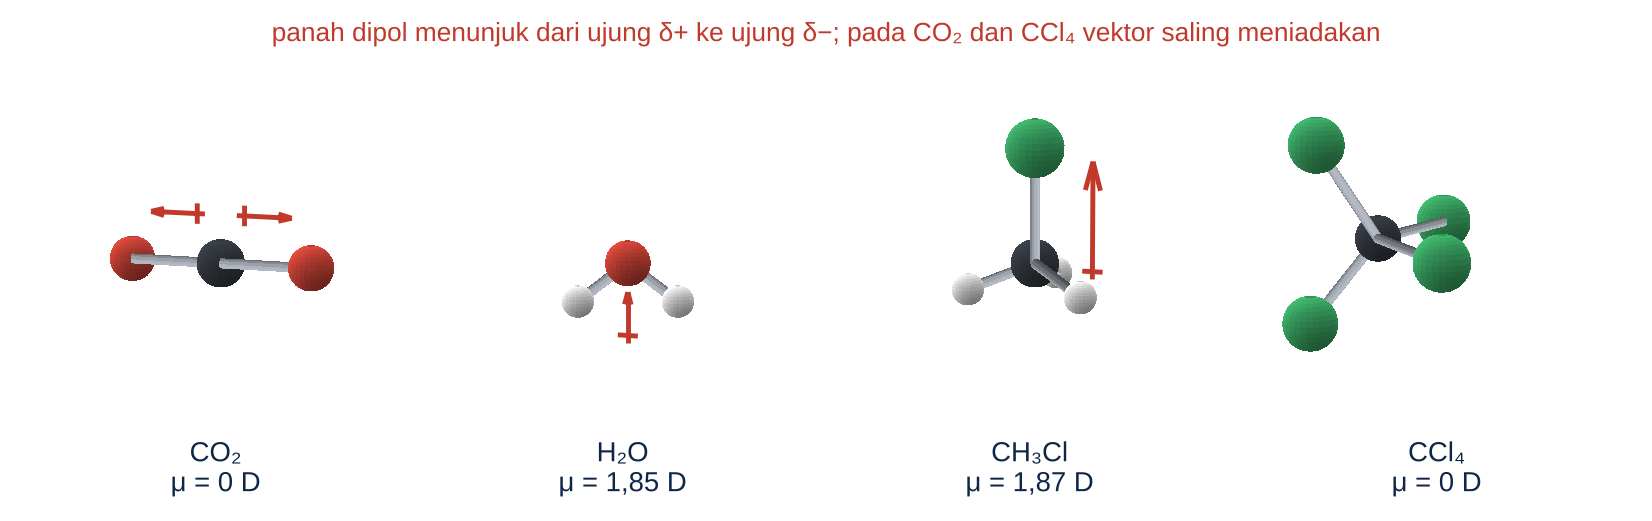
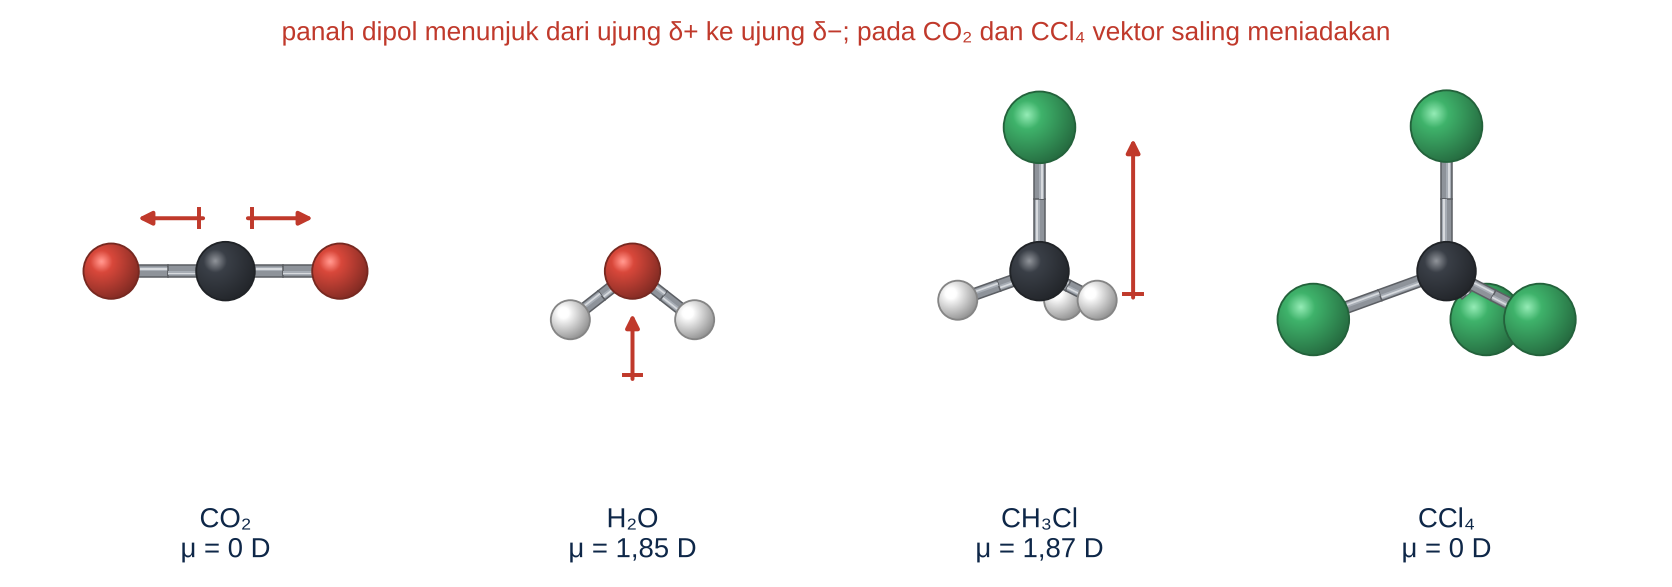
Kimia Organik 1: penggambar bola-batang berurutan kedalaman (tanpa cacat tumpang-tindih) untuk dipol dan VSEPR
Claude-Session: https://claude.ai/code/session_01G22JtT1y1xdtaSNXZDohTG

diff --git a/kimia-organik/alat/gambar/bab01.py b/kimia-organik/alat/gambar/bab01.py
@@ -411,44 +411,47 @@ f.text(0.375, 0.95, 'ikatan σ: tumpang tindih ujung ke ujung, di sepanjang sumb
 f.text(0.875, 0.95, 'ikatan π: di atas dan di bawah sumbu', ha='center', fontsize=8.8, color=JT, fontweight='bold')
 f.savefig(f'{F}/sigmapi.png', bbox_inches='tight'); plt.close(f)
 
-# dipol: bola-batang dengan panah tipis
-def panah3d(ax, p, q, c=MERAH, lw=1.6):
-    p, q = np.array(p, float), np.array(q, float); ax.quiver(*p, *(q - p), color=c, lw=lw, arrow_length_ratio=0.25)
-    d = q - p; d /= np.linalg.norm(d); n = np.cross(d, [0, 1, 0]); n = n / (np.linalg.norm(n) + 1e-9) * 0.12; c0 = p + d * 0.12
-    ax.plot([c0[0] - n[0], c0[0] + n[0]], [c0[1] - n[1], c0[1] + n[1]], [c0[2] - n[2], c0[2] + n[2]], color=c, lw=lw)
-f = plt.figure(figsize=(7.4, 2.2), dpi=220)
-M = [('O=C=O', 'CO₂', 'μ = 0 D', (1, 0, 0)), ('O', 'H₂O', 'μ = 1,85 D', None), ('CCl', 'CH₃Cl', 'μ = 1,87 D', None), ('ClC(Cl)(Cl)Cl', 'CCl₄', 'μ = 0 D', None)]
-for k, (smi, nm, mu, _) in enumerate(M):
+# dipol: bola-batang (penggambar 2D berurutan kedalaman) dengan panah tipis
+from ilustrasi import bolabatang, hadap
+def kanvas2d(f, rect, lim=1.6):
+    a = f.add_axes(rect); a.set_xlim(-lim, lim); a.set_ylim(-lim, lim); a.set_aspect('equal'); a.axis('off'); return a
+def pdipol(a, p, q, c=MERAH):
+    p, q = np.array(p, float), np.array(q, float); a.add_patch(FancyArrowPatch(p, q, arrowstyle='-|>', mutation_scale=9, color=c, lw=1.3, zorder=200))
+    d = (q - p) / np.hypot(*(q - p)); n = np.array([-d[1], d[0]]) * 0.11; c0 = p + d * 0.12; a.plot([c0[0] - n[0], c0[0] + n[0]], [c0[1] - n[1], c0[1] + n[1]], color=c, lw=1.3, zorder=200)
+f = plt.figure(figsize=(7.4, 2.5), dpi=220)
+EL, AZ = 12, -70
+for k, (smi, nm, mu) in enumerate([('O=C=O', 'CO₂', 'μ = 0 D'), ('O', 'H₂O', 'μ = 1,85 D'), ('CCl', 'CH₃Cl', 'μ = 1,87 D'), ('C(Cl)(Cl)(Cl)Cl', 'CCl₄', 'μ = 0 D')]):
     m, P = koord(smi)
-    heavy = [a.GetIdx() for a in m.GetAtoms() if a.GetSymbol() != 'H']
-    if smi == 'O=C=O': P = putar(P - P[1], P[0] - P[1], (1, 0, 0))
-    if smi == 'O':
-        hs = [a.GetIdx() for a in m.GetAtoms() if a.GetSymbol() == 'H']; bis = (P[hs[0]] + P[hs[1]]) / 2; P = putar(P, bis, (0, 0, -1)); P = rz(P, P[hs[0]] - P[hs[1]], layar(-75))
-    if smi == 'CCl': P = putar(P, P[1] - P[0], (0, 0, 1))
-    ax = ax3d(f, [k * 0.25, 0.1, 0.25, 0.8], lim=1.75, elev=12, azim=-75)
-    atom, ik = pasang(m, P); molekul3d(ax, atom, ik, s=1.0)
-    if smi == 'O=C=O':
-        panah3d(ax, (-0.25, 0, 0.75), (-1.1, 0, 0.75)); panah3d(ax, (0.25, 0, 0.75), (1.1, 0, 0.75))
-    if smi == 'O': panah3d(ax, (0, 0, -1.25), (0, 0, -0.45))
-    if smi == 'CCl': panah3d(ax, (0.9, 0, -0.2), (0.9, 0, 1.6))
-    f.text(k * 0.25 + 0.125, 0.04, f'{nm}\n{mu}', ha='center', fontsize=9, color=TUA)
+    hs = [a.GetIdx() for a in m.GetAtoms() if a.GetSymbol() == 'H']
+    if smi == 'O=C=O': P = hadap(P - P[1], kanan=P[0] - P[1], atas=(0, 0, 1), elev=EL, azim=AZ)
+    if smi == 'O': P = hadap(P, kanan=P[hs[0]] - P[hs[1]], atas=-(P[hs[0]] + P[hs[1]]), elev=EL, azim=AZ)
+    if smi == 'CCl': ax_ = P[1] - P[0]; h_ = P[hs[0]] - np.dot(P[hs[0]], ax_) / np.dot(ax_, ax_) * ax_; P = hadap(P, atas=ax_, kanan=h_ * 0.5 + np.cross(ax_, h_) * 0.3, elev=EL, azim=AZ)
+    if smi.startswith('C(Cl)'): ax_ = P[1] - P[0]; h_ = P[2] - np.dot(P[2], ax_) / np.dot(ax_, ax_) * ax_; P = hadap(P, atas=ax_, kanan=h_ * 0.5 + np.cross(ax_, h_) * 0.3, elev=EL, azim=AZ)
+    a = kanvas2d(f, [k * 0.25, 0.17, 0.25, 0.76], lim=2.5)
+    atom, ik = pasang(m, P); bolabatang(a, atom, ik, elev=EL, azim=AZ, skala=1.0)
+    if smi == 'O=C=O': pdipol(a, (-0.2, 0.65), (-1.15, 0.65)); pdipol(a, (0.2, 0.65), (1.15, 0.65))
+    if smi == 'O': pdipol(a, (0, -1.4), (0, -0.45))
+    if smi == 'CCl': pdipol(a, (1.15, -0.4), (1.15, 1.7))
+    f.text(k * 0.25 + 0.125, 0.03, f'{nm}\n{mu}', ha='center', fontsize=9, color=TUA)
 f.text(0.5, 0.97, 'panah dipol menunjuk dari ujung δ+ ke ujung δ−; pada CO₂ dan CCl₄ vektor saling meniadakan', ha='center', fontsize=8.6, color=MERAH)
 f.savefig(f'{F}/dipol.png', bbox_inches='tight'); plt.close(f)
 
 # VSEPR: bola-batang dengan pasangan bebas sebagai cuping
-f = plt.figure(figsize=(7.4, 2.2), dpi=220)
+f = plt.figure(figsize=(7.4, 2.3), dpi=220)
 for k, (smi, nm, sud, npb) in enumerate([('C', 'metana', '109,5°', 0), ('N', 'amonia', '107°', 1), ('O', 'air', '104,5°', 2)]):
     m, P = koord(smi); hs = [a.GetIdx() for a in m.GetAtoms() if a.GetSymbol() == 'H']
     sH = sum(P[h] / np.linalg.norm(P[h]) for h in hs)
-    if npb: P = putar(P, -sH, (0, 0, 1))
+    if npb == 0: P = hadap(P, atas=P[hs[0]], kanan=np.cross(P[hs[0]], P[hs[1]]), elev=14, azim=-55)
+    if npb == 1: P = hadap(P, atas=-sH, kanan=np.cross(-sH, P[hs[0]]) + P[hs[0]] * 0.0, elev=14, azim=-55)
     if npb == 2:
-        v_ = layar(-65); a_ = np.radians(50); P = rz(P, np.cross(P[hs[0]], P[hs[1]]), np.array([v_[0] * np.cos(a_) - v_[1] * np.sin(a_), v_[0] * np.sin(a_) + v_[1] * np.cos(a_), 0]))
-    ax = ax3d(f, [k * 0.333, 0.1, 0.333, 0.95], lim=1.2, elev=10, azim=-65)
-    atom, ik = pasang(m, P); molekul3d(ax, atom, ik)
-    if npb == 1: tetes(ax, (0, 0, 1), 0.95, 0.38, '#f3c86a', alpha=0.75)
+        H1, H2 = P[hs[0]], P[hs[1]]; P = hadap(P, atas=-(H1 + H2), kanan=(H1 - H2) * 0.6 + np.cross(H1, H2) * 0.8, elev=14, azim=-55)
+    cup = []
+    if npb == 1: cup = [(0, (0, 0, 1), '#f3c86a')]
     if npb == 2:
         H1, H2 = [P[h] / np.linalg.norm(P[h]) for h in hs]; bis = -(H1 + H2); bis /= np.linalg.norm(bis); n = np.cross(H1, H2); n /= np.linalg.norm(n)
-        for sg in (1, -1): tetes(ax, bis * 0.58 + n * 0.81 * sg, 0.9, 0.36, '#f3c86a', alpha=0.75)
+        cup = [(0, bis * 0.58 + n * 0.81 * sg, '#f3c86a') for sg in (1, -1)]
+    a = kanvas2d(f, [k * 0.333, 0.2, 0.333, 0.78], lim=1.45)
+    atom, ik = pasang(m, P); bolabatang(a, atom, ik, elev=14, azim=-55, skala=1.0, cuping=cup)
     f.text(k * 0.333 + 0.166, 0.03, f'{nm} ({sud})\n{4 - npb} ikatan, {npb} pasangan bebas', ha='center', fontsize=8.8, color=TUA)
 f.savefig(f'{F}/vsepr.png', bbox_inches='tight'); plt.close(f)
 print('ok ilustrasi')

diff --git a/kimia-organik/alat/gambar/ilustrasi.py b/kimia-organik/alat/gambar/ilustrasi.py
@@ -72,3 +72,80 @@ def molekul3d(ax, atom, ikatan, s=1.0):
     """atom: list (el, (x,y,z)); ikatan: list (i, j). Digambar dari belakang ke depan menurut kedalaman pandang."""
     for i, j in ikatan: batang(ax, atom[i][1], atom[j][1])
     for el, p in atom: bola(ax, p, el, s)
+
+# ---------- penggambar bola-batang 2D dengan urutan kedalaman (tanpa cacat tumpang-tindih) ----------
+from matplotlib.patches import Circle as _Circle, Polygon as _Poly, PathPatch as _PathPatch
+from matplotlib.path import Path as _Path
+def _gelap(c, f): c = np.array(to_rgb(c)); return tuple(np.clip(c * f, 0, 1))
+def _terang(c, f): c = np.array(to_rgb(c)); return tuple(np.clip(c + (1 - c) * f, 0, 1))
+_GRAD = None
+def _gradien_bola():
+    global _GRAD
+    if _GRAD is None:
+        n = 160; y, x = np.mgrid[-1:1:n * 1j, -1:1:n * 1j]
+        d = np.sqrt((x + 0.35) ** 2 + (y - 0.35) ** 2)        # sorot di kiri atas
+        _GRAD = np.clip(1 - d / 1.6, 0, 1)
+    return _GRAD
+def matriks_pandang(elev=15, azim=-60):
+    e, a = np.radians(elev), np.radians(azim)
+    Rz = np.array([[np.cos(a), np.sin(a), 0], [-np.sin(a), np.cos(a), 0], [0, 0, 1]])
+    Rx = np.array([[1, 0, 0], [0, np.cos(e), np.sin(e)], [0, -np.sin(e), np.cos(e)]])
+    # setelah rotasi: sumbu x layar, y kedalaman (positif menjauh), z layar atas
+    return Rx @ Rz
+def bola2d(ax, x, y, r, warna, z=0):
+    c = _Circle((x, y), r, transform=ax.transData)
+    rgb = np.array(to_rgb(warna)); g = _gradien_bola()[..., None]
+    img = np.clip(rgb * (0.55 + 0.6 * g) + (1 - rgb) * np.clip(g - 0.75, 0, 1) * 1.6, 0, 1)
+    im = ax.imshow(img, extent=[x - r, x + r, y - r, y + r], origin='lower', zorder=z, interpolation='bilinear')
+    im.set_clip_path(c); ax.add_patch(_Circle((x, y), r, fc='none', ec=_gelap(warna, 0.55), lw=0.6, zorder=z + 0.01))
+def batang2d(ax, p, q, w, warna='#a7adb5', z=0):
+    p, q = np.array(p), np.array(q); d = q - p; L = np.hypot(*d)
+    if L < 1e-6: return
+    n = np.array([-d[1], d[0]]) / L * w / 2
+    ax.add_patch(_Poly([p + n, q + n, q - n, p - n], closed=True, fc=_gelap(warna, 0.85), ec=_gelap(warna, 0.55), lw=0.5, zorder=z))
+    ax.add_patch(_Poly([p + n * 0.75, q + n * 0.75, q - n * 0.05, p - n * 0.05], closed=True, fc=warna, ec='none', zorder=z + 0.01))
+    ax.add_patch(_Poly([p + n * 0.55, q + n * 0.55, q + n * 0.25, p + n * 0.25], closed=True, fc=_terang(warna, 0.55), ec='none', zorder=z + 0.02))
+def cuping2d(ax, p, arah2, L, w, warna, z=0, alpha=0.85):
+    """Cuping tetes 2D dari titik p ke arah arah2 (vektor 2D, panjang terproyeksi L)."""
+    d = np.array(arah2, float); n_ = np.hypot(*d)
+    if n_ < 1e-6: d = np.array([0, 1.0]); n_ = 1
+    d /= n_; nn = np.array([-d[1], d[0]]); t = np.linspace(0, 1, 50)
+    rho = w * 1.45 * t ** 0.7 * np.sqrt(np.clip(1 - t ** 2, 0, None))
+    kiri = [p + d * L * ti + nn * ri for ti, ri in zip(t, rho)]; kanan = [p + d * L * ti - nn * ri for ti, ri in zip(t[::-1], rho[::-1])]
+    poly = _Poly(kiri + kanan, closed=True, transform=ax.transData)
+    rgb = np.array(to_rgb(warna)); xs = np.array(kiri + kanan); x0, x1, y0, y1 = xs[:, 0].min(), xs[:, 0].max(), xs[:, 1].min(), xs[:, 1].max()
+    gy, gx = np.mgrid[0:1:80j, 0:1:80j]; cx, cy = (p + d * L * 0.65 - [x0, y0]) / [max(x1 - x0, 1e-6), max(y1 - y0, 1e-6)]
+    g = np.clip(1 - np.sqrt((gx - cx + 0.15) ** 2 + (gy - cy - 0.15) ** 2) / 0.9, 0, 1)[..., None]
+    img = np.concatenate([np.clip(rgb * (0.6 + 0.55 * g), 0, 1), np.full(g.shape, alpha)], -1)
+    im = ax.imshow(img, extent=[x0, x1, y0, y1], origin='lower', zorder=z, interpolation='bilinear'); im.set_clip_path(poly)
+    ax.add_patch(_Poly(kiri + kanan, closed=True, fc='none', ec=_gelap(warna, 0.6), lw=0.5, zorder=z + 0.01))
+def bolabatang(ax, atom, ikatan, elev=15, azim=-60, skala=1.0, pusat=(0, 0), cuping=(), w_batang=0.14, ganda=()):
+    """atom: [(el, xyz)], ikatan: [(i, j)], cuping: [(i_atom, arah_xyz, warna)]. Mengembalikan koordinat 2D."""
+    M = matriks_pandang(elev, azim); P3 = np.array([p for _, p in atom], float) @ M.T
+    xy = P3[:, [0, 2]] * skala + np.array(pusat); dep = P3[:, 1]
+    obj = []
+    for i, j in ikatan:
+        for a, b in [(i, j), (j, i)]:
+            mid = (xy[a] + xy[b]) / 2; obj.append((-(dep[a] + 0.02), 'b', (xy[a], mid)))
+    for k, (el, _) in enumerate(atom): obj.append((-dep[k], 'a', k))
+    for i, v, c in cuping:
+        v3 = np.array(v, float) @ M.T; v2 = v3[[0, 2]]; L = 0.95 * skala * max(np.hypot(*v2) / (np.linalg.norm(v3) + 1e-9), 0.35)
+        obj.append((-(dep[i] + 0.6 * v3[1] / (np.linalg.norm(v3) + 1e-9)), 'c', (xy[i], v2, L, c)))
+    obj.sort(key=lambda o: o[0])
+    for z, (dz, jenis, data) in enumerate(obj):
+        if jenis == 'b': batang2d(ax, data[0], data[1], w_batang * skala, z=z + 1)
+        elif jenis == 'a':
+            k = data; el = atom[k][0]; bola2d(ax, *xy[k], RAD[el] * skala, CPK[el], z=z + 1)
+        else: cuping2d(ax, data[0], data[1], data[2], 0.36 * skala, data[3], z=z + 1)
+    return xy, dep
+
+def hadap(P, kanan=None, atas=None, elev=15, azim=-60):
+    """Putar koordinat dunia P sehingga vektor 'kanan' tampak mendatar ke kanan dan 'atas' tampak tegak ke atas."""
+    M = matriks_pandang(elev, azim); C = np.stack([M[0], M[1], M[2]], 1)
+    if kanan is None: kanan = np.cross(atas, [0.3, 0.7, 0.1])
+    u = np.array(kanan, float); u /= np.linalg.norm(u)
+    if atas is None: atas = np.cross([0.2, 0.9, 0.3], u)
+    v = np.array(atas, float); v = v - np.dot(v, u) * u; v /= np.linalg.norm(v)
+    for sg in (1, -1):
+        d = sg * np.cross(v, u); B = np.stack([u, d, v], 1); R = C @ B.T
+        if np.linalg.det(R) > 0: return P @ R.T
